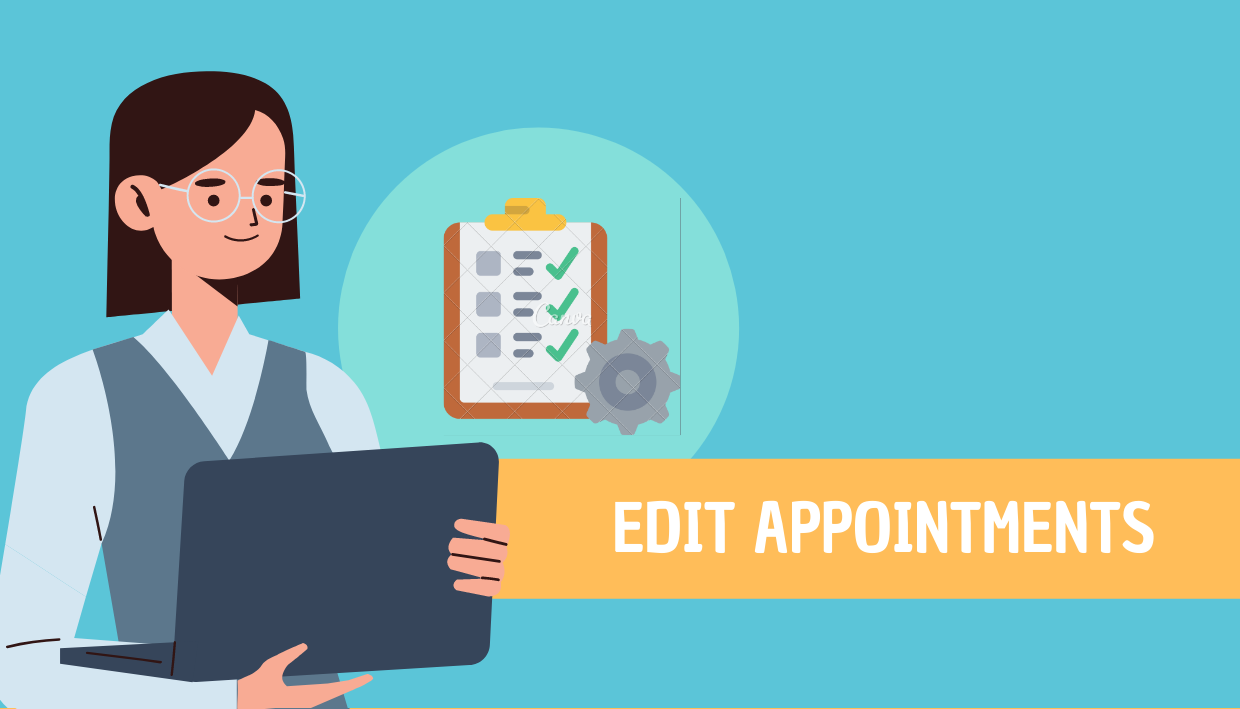
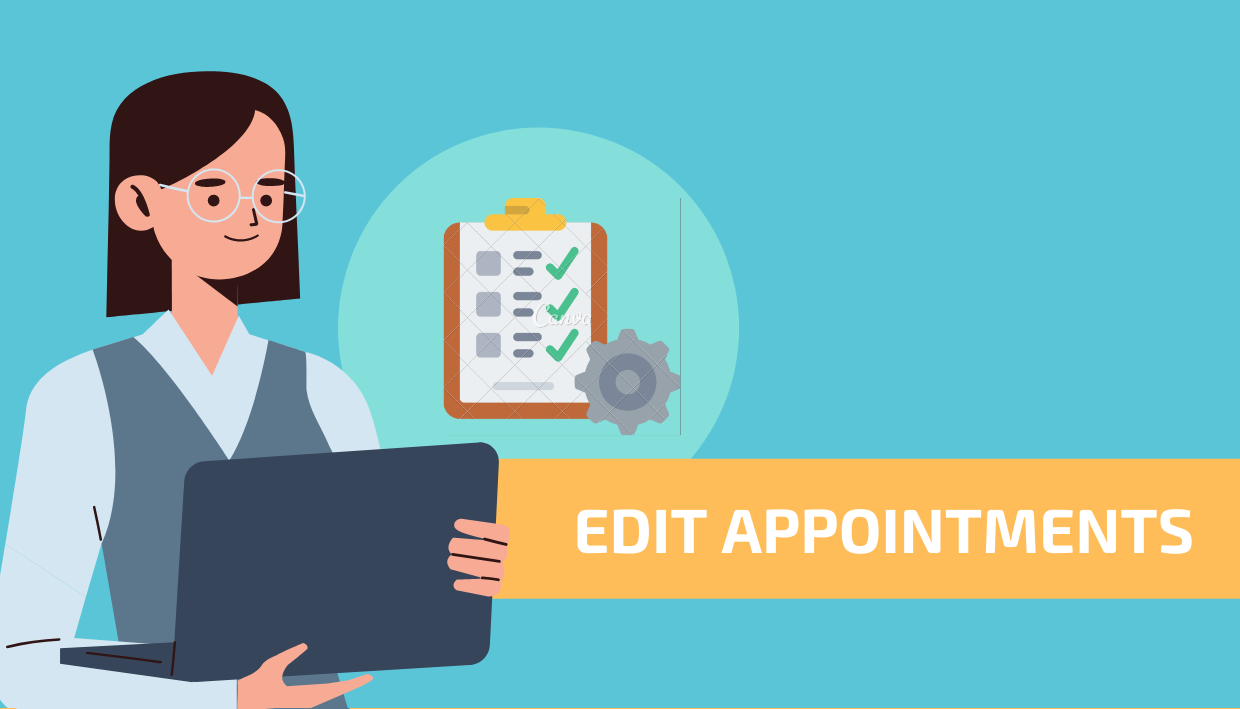
..

Changed region(s): [[0.4597, 0.6827, 0.9806, 0.8068]]

diff --git a/web_admin/view_session.php b/web_admin/view_session.php
@@ -25,21 +25,7 @@
     <link rel="stylesheet" href="../css/owl-carousel.css">
     <link rel="stylesheet" href="../css/lightbox.css">
     <link rel="shortcut icon" type="image/png" href="../images/transparenticon.png">
-    <style>
-	table {
-	  margin: auto;
-	  width: 70%;
-	  background-color: white;
-	}
-	
-	th {
-	  text-align: center;
-	}
-	
-	td {
-	  padding: 20px;
-	}
-	</style>
+    <link rel="stylesheet" href="../css/tempcss.css">
 	</head>
     <body>
     <!-- Header -->
@@ -75,48 +61,42 @@
         </div>
     </header>
 
-    <!-- View Session -->
+    <!-- View Session Starts -->
     <section class="section" id="menu">
         <div class="container">
             <div class="row">
-				<div class="col-lg-4 offset-lg-4 text-center">
-                    <div class="section-heading">
-                        <h6>VIEW SESSION LOGS</h6>
-						<h2>Monitor List</h2>
+			<div class="col-lg-12 text-center">
+                    <div class="headBnnr">
+                    <br<br><br><br><br>
+                        <h6>MONITOR LOGIN & LOGOUT</h6>
+						<h2><b>SESSION LOGS</b></h2>
                     </div>
-				</div>
+            </div>
 			</div>
-  
-    <table align="center" border="1px">
-        <tr>
-            <th>DOCTOR</th>
-            <th>LOGIN DATE & TIME</th>
-            <th>LOGOUT DATE & TIME</th>
-        </tr>
+    <div class="respoTable">
 
     <?php
-
         $con = mysqli_connect("localhost", "root", "", "patient_care") or die(mysqli_error());
         $user_id = $_SESSION['user_id'];
         $query = mysqli_query($con, "SELECT login_date_time, logout_date_time, CONCAT(fname, \" \", lname) AS doctor_name FROM `doctor_log` INNER JOIN doctor on doctor.doctor_id = doctor_log.doctor_id ORDER BY login_date_time asc");
         
+        Print '<table align="center" class="fixed_header mngTable">
+        <thead><tr>
+            <th>DOCTOR</th>
+            <th>LOGIN DATE & TIME</th>
+            <th>LOGOUT DATE & TIME</th>
+        </tr></thead>';
+
         while($row = mysqli_fetch_array($query))
         {
         Print '<tr>';
-	    Print '<td>' . $row['doctor_name'];
-        Print '<td>' . $row['login_date_time'];
-        Print '<td>' . $row['logout_date_time'];
+	    Print '<td style="text-align:center">' . $row['doctor_name'];
+        Print '<td style="text-align:center">' . $row['login_date_time'];
+        Print '<td style="text-align:center">' . $row['logout_date_time'];
         Print '</tr>';
         }
     ?>
     </table><br>
-
-    <table align="center" border="1px">
-        <tr>
-            <th>PATIENT</th>
-            <th>LOGIN DATE & TIME</th>
-            <th>LOGOUT DATE & TIME</th>
-        </tr>
 
     <?php
 
@@ -124,24 +104,30 @@
         $user_id = $_SESSION['user_id'];
         $query = mysqli_query($con, "SELECT login_date_time, logout_date_time, CONCAT(fname, \" \", lname) AS patient_name FROM `patient_log` INNER JOIN patient WHERE patient.patient_id = patient_log.patient_id ORDER BY login_date_time asc");
         
-
+        Print '<table align="center" class="fixed_header mngTable">
+        <thead><tr>
+            <th>PATIENT</th>
+            <th>LOGIN DATE & TIME</th>
+            <th>LOGOUT DATE & TIME</th>
+        </tr></thead>';
         
         while($row = mysqli_fetch_array($query))
         {
         Print '<tr>';
-	    Print '<td>' . $row['patient_name'];
-        Print '<td>' . $row['login_date_time'];
-        Print '<td>' . $row['logout_date_time'];
+	    Print '<td style="text-align:center">' . $row['patient_name'];
+        Print '<td style="text-align:center">' . $row['login_date_time'];
+        Print '<td style="text-align:center">' . $row['logout_date_time'];
         Print '</tr>';
         }
     ?>
-    </table>
-    </div>
+            </table>
+        </div>
     </section>
     <br></br>
+    <!-- View Session Ends -->
     
-<!-- Footer -->
-<footer>
+    <!-- Footer -->
+    <footer>
         <div class="container">
             <div class="row">
                 <div class="col-lg-4 col-xs-12">

diff --git a/web_admin/view_appointment.php b/web_admin/view_appointment.php
@@ -25,21 +25,7 @@
     <link rel="stylesheet" href="../css/owl-carousel.css">
     <link rel="stylesheet" href="../css/lightbox.css">
     <link rel="shortcut icon" type="image/png" href="../images/transparenticon.png">
-    <style>
-	table {
-	  margin: auto;
-	  width: 70%;
-	  background-color: white;
-	}
-	
-	th {
-	  text-align: center;
-	}
-	
-	td {
-	  padding: 20px;
-	}
-	</style>
+    <link rel="stylesheet" href="../css/tempcss.css">
 	</head>
     <body>
     <!-- Header -->
@@ -75,19 +61,25 @@
         </div>
     </header>
 
-    <!-- Manage Appointment -->
+    <!-- View Appointment -->
     <section class="section" id="menu">
         <div class="container">
             <div class="row">
-			<div class="col-lg-4 offset-lg-4 text-center">
-                    <div class="section-heading">
-                        <h6>MANAGE APPOINTMENTS</h6>
-						<h2>Edit List</h2>
+			<div class="col-lg-12 text-center">
+                    <div class="headBnnr">
+                    <br<br><br><br><br>
+                        <h6>SCHEDULED APPOINTMENTS</h6>
+						<h2><b>EDIT APPOINTMENTS</b></h2>
                     </div>
-            </div>
-		</div>
-    <table align="center" border="1px" width="50%">
-        <tr>
+                </div>
+		    </div>
+        <div class="respoTable">
+    <?php
+        $user_id = $_SESSION['user_id'];
+        $query = mysqli_query($con, "Select doctor.fname as doctor_fname, doctor.lname as doctor_lname, patient.fname, patient.lname, appointment.appointment_date, appointment.appointment_time, appointment.details, appointment.appointment_no, appointment.approval FROM patient inner join appointment inner join doctor where patient.patient_id = appointment.patient_id && appointment.doctor_id = doctor.doctor_id ORDER BY appointment_date asc");
+
+        Print '<table align="center" class="fixed_header mngTable">
+        <thead><tr>
             <th>PATIENT</th>
             <th>DOCTOR</th>
             <th>APPOINTMENT DATE</th>
@@ -96,11 +88,8 @@
             <th>STATUS</th>
             <th>UPDATE</th>
             <th>Delete</th>
-        </tr>
-    <?php
-        $user_id = $_SESSION['user_id'];
-        $query = mysqli_query($con, "Select doctor.fname as doctor_fname, doctor.lname as doctor_lname, patient.fname, patient.lname, appointment.appointment_date, appointment.appointment_time, appointment.details, appointment.appointment_no, appointment.approval FROM patient inner join appointment inner join doctor where patient.patient_id = appointment.patient_id && appointment.doctor_id = doctor.doctor_id ORDER BY appointment_date asc");
-       
+        </tr></thead>';
+
         while($row = mysqli_fetch_array($query))
         {
         Print '<tr>';
@@ -114,11 +103,12 @@
         Print "<td><a class='btn-danger' href='./delete.php?id= ".$row['appointment_no']. "'>DELETE</a>";
         Print '</tr>';
         }
-
     ?>
-    </table>
+                </table>
+            </div>
         </div>
     </section>
+    <!-- View Appointment -->
 
 	<!-- Footer -->
     <footer>

diff --git a/web_admin/index_admin.php b/web_admin/index_admin.php
@@ -102,12 +102,13 @@
         </div>
     </div>
 
-    <!-- About -->
+    <!-- About Area Starts -->
     <section class="section" id="about">
         <div class="container">
             <div class="row">
                 <div class="col-lg-6 col-md-6 col-xs-12">
                     <div class="left-text-content">
+					<img src="../images/top.png"><br><br>
                         <div class="section-heading">
                             <h6>My Account</h6>
                             <h2>
@@ -116,22 +117,12 @@
 								?>
 							</h2>
                         </div>
-                        <p>We at PatientHelp believes that Digitalization is one of the key of Innovation. 
-						<br/><br/>By making appointment digitally or available on the internet, scheduling and meeting your Doctor in an orderly fashion could help many patients during this time of pandemic. 
-						<br/><br/>Contactless appointment scheduling could also be a way to help reduce transmission  of the Covid-19 Virus  and avoid a crowd of patient eaiting in line just to get an appointment. 
-						<br/><br/>By the use of PatientHelp not only can patients schedule for an appointment but also they could choose the Doctor who is available at the moment along with their specialization.</p>
-                        <div class="row">
-                            <div class="col-4">
-                                <img src="https://www.usnews.com/dims4/USNEWS/e0809c9/2147483647/crop/2000x1313%2B0%2B0/resize/640x420/quality/85/?url=http:%2F%2Fmedia.beam.usnews.com%2F0d%2Fc3%2F396b0ea644d98747667d7b993ccd%2F170726-doctors-stock.jpg" alt="">
-                            </div>
-                            <div class="col-4">
-                                <img src="https://progressivesforimmigrationreform.org/wp-content/uploads/2020/04/Doctors-scaled.jpg" alt="">
-                            </div>
-                            <div class="col-4">
-                                <img src="https://cdn.halemind.com/assets/static/hiw_doctors-1730ad4e76d17e37e63f882bf1f96bac18955fb873740d617b631a8da0ef88f2.png" alt="">
-                            </div>
-                        </div>
+                        <img src="../images/bot.png" alt="">
+                        <br><br><br><br>
                     </div>
+                    <a href="register_doctor.php">
+							<img src="../images/cdoc.png" alt="">
+                    </a>
                 </div>
                 <div class="col-lg-6 col-md-6 col-xs-12">
                     <div class="right-content">
@@ -148,6 +139,7 @@
             </div>
         </div>
     </section>
+    <!-- About  -->
 
     <!-- Our Team -->
     <section class="section" id="ourteam">
